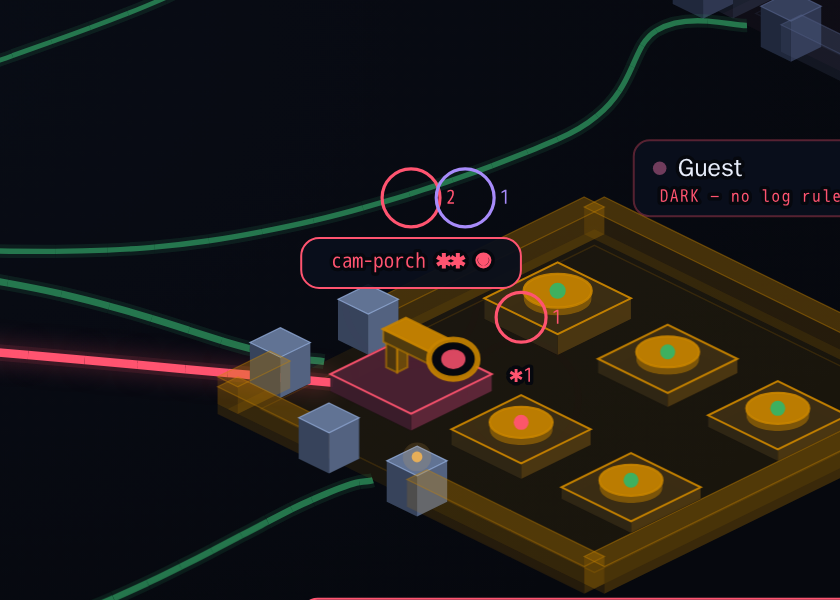
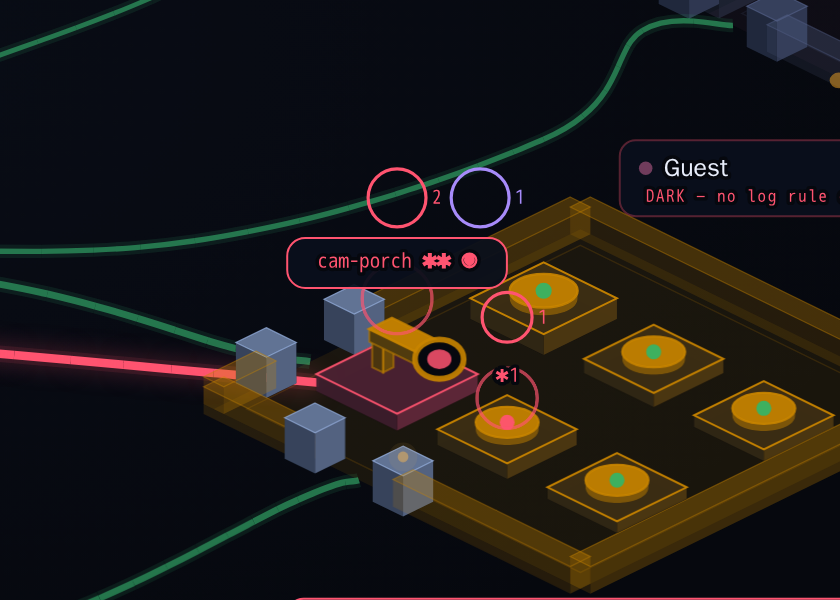
Round 46: watch ring clears the flag count digit
In markRings() (direction B), the second ring's centre was computed as
numX + digitWidth + gap - the position of the ring's left edge, not its
centre - so it landed one radius too far left and the watch ring
overlapped the flag count digit (see shots/ring-cam-porch.png). Added
the missing "+ rr" to convert that left-edge offset into a centre.

Verified by rerunning capture.mjs and inspecting ring-cam-porch.png,
ring-survey.png, ring-alarm.png and ring-street.png at 3-4x zoom: the
cam-porch building's flag "2" now sits clear of the watch ring in all
three shots that include it, and single-mark rings (laptop-anna,
doorbell, alex-desktop, phone-alex) are unaffected.

Part of #981

Changed region(s): [[0.0, 0.0, 1.0, 1.0], [0.0, 0.0, 0.1857, 0.12], [0.3405, 0.99, 0.3714, 1.0]]

diff --git a/docs/design/concepts/round-46/marks.html b/docs/design/concepts/round-46/marks.html
@@ -1004,7 +1004,7 @@ function markRings(clearLine, k, b) {
     s += '<circle class="mk-ring" cx="' + cx + '" cy="' + cy + '" r="' + rr + '" fill="none" stroke="' + ink + '" stroke-width="1.6"/>';
     const numX = R2(cx + rr + 3);
     s += '<text class="mk-ring mk-ringnum" x="' + numX + '" y="' + R2(cy + 3.3) + '" fill="' + ink + '">' + n + '</text>';
-    cx = R2(numX + String(n).length * 6.6 + 3);
+    cx = R2(numX + String(n).length * 6.6 + 3 + rr);
   };
   if (b.flags) one('var(--alarm)', b.flags);
   if (b.watch) one('var(--watch)', b.watch);
